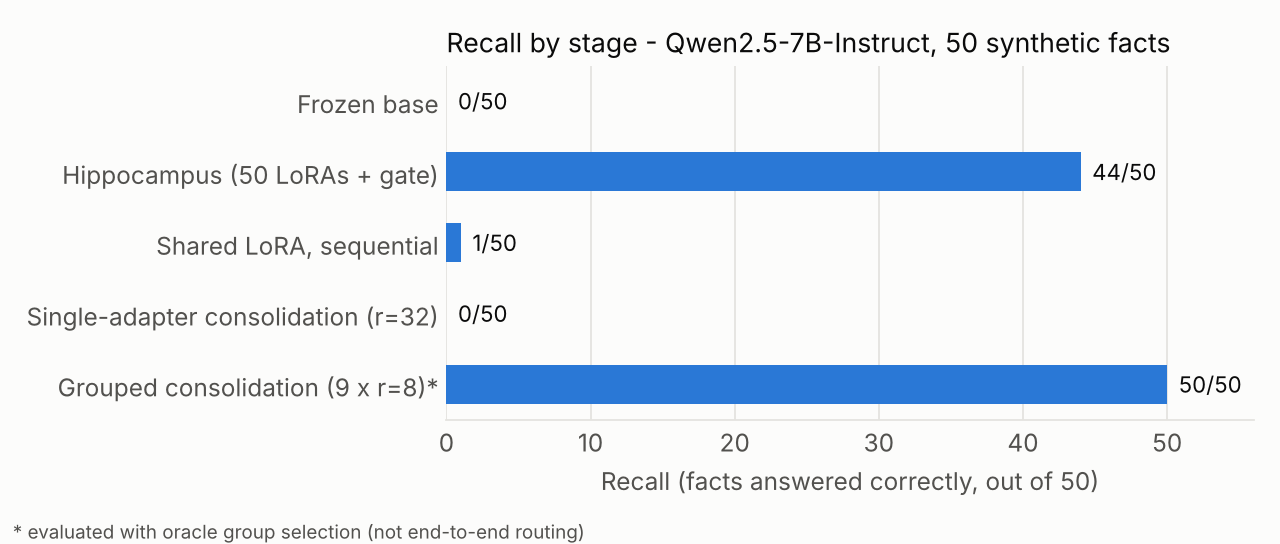
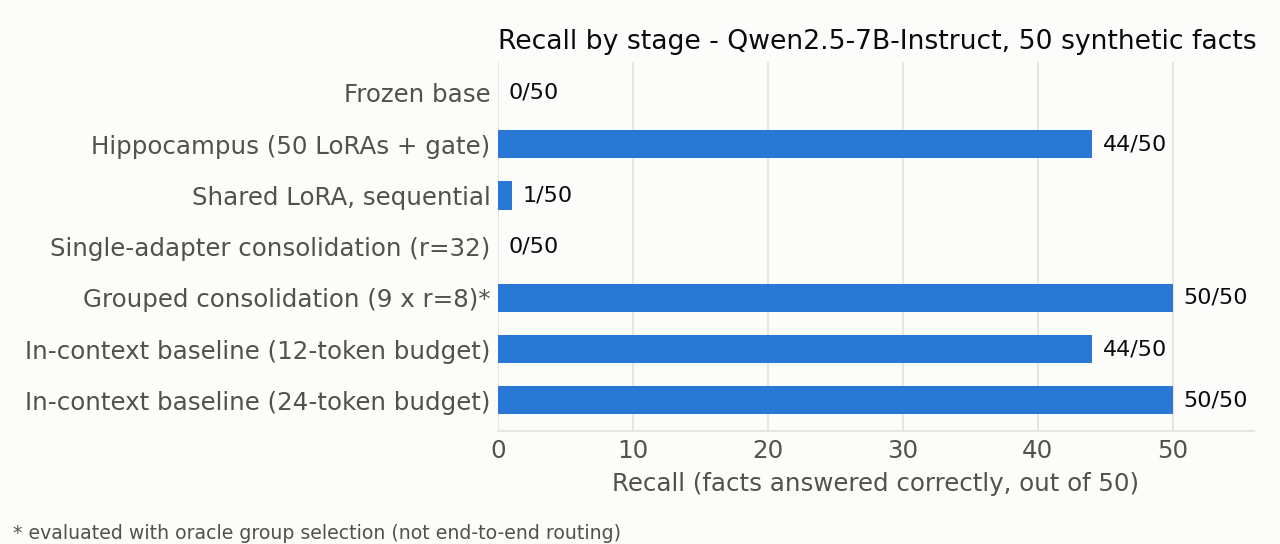
results: 补跑 ICL 基线（12 token 44/50、24 token 50/50），更新结论、图表与报告附录

diff --git a/src/baseline_icl.py b/src/baseline_icl.py
@@ -25,7 +25,7 @@ MODEL_ID = os.environ.get("MODEL_ID", "Qwen/Qwen2.5-7B-Instruct")
 SEED = int(os.environ.get("SEED", "42"))
 N_FACTS = int(os.environ.get("N_FACTS", "50"))
 USE_4BIT = os.environ.get("USE_4BIT", "1") != "0"
-MAX_NEW = 12
+MAX_NEW = int(os.environ.get("MAX_NEW", "12"))   # 与论文其它阶段保持 12；调大可用于区分「答错」和「被截断」
 
 
 def pick_facts(n):

diff --git a/results/plot_results.py b/results/plot_results.py
@@ -35,6 +35,8 @@ LABELS = {
     "shared_lora_sequential": "Shared LoRA, sequential",
     "single_adapter_consolidation": "Single-adapter consolidation (r=32)",
     "grouped_consolidation_oracle": "Grouped consolidation (9 x r=8)*",
+    "icl_baseline_max12": "In-context baseline (12-token budget)",
+    "icl_baseline_max24": "In-context baseline (24-token budget)",
 }
 
 

diff --git a/README.md b/README.md
@@ -26,17 +26,28 @@ Five stages on 50 fabricated facts:
 
 ![Consolidation loss: single adapter vs grouped](results/fig_consolidation_loss.png)
 
+### In-context baseline (added 2026-10-22)
+
+All 50 facts pasted into the system prompt (~700 tokens), no training, greedy decode, `src/baseline_icl.py`:
+
+| Token budget | Recall | Wall clock | Note |
+|---|---|---|---|
+| 12 (same as the other stages) | 44/50 | 22 s | ties the hippocampus; all 6 misses are **truncation**, not wrong answers |
+| 24 | **50/50** | 24 s | every fact answered correctly on the first try |
+
+This is the comparison the original note was missing, and it is unkind to the LoRA stack: at 50 facts, simply putting the facts in the prompt is as accurate as the best consolidated configuration — no adapters, no training, no oracle routing. What weight-based memory could still buy is a constant context cost (0 prompt tokens instead of ~700) and graceful behaviour once the fact set outgrows the window, but at this scale that is an argument, not a measurement. The 12-token misses are worth reading: the model reproduces the fact's own wording and gets cut off mid-answer, which is exactly the kind of artefact a shared token budget produces when every stage is scored with the same decoder limit.
 ### Three takeaways
 
 1. **The hippocampal side scales.** Per-fact LoRA plus cosine gating goes from 6 to 50 facts and still recalls 44/50 with 47/50 routing.
 2. **Sequential learning forgets.** A single shared LoRA trained on 50 facts in sequence retains 1 — the same as 1/6 at the smaller scale.
 3. **Single-adapter consolidation is the bottleneck of this recipe.** With batch=1, fixed order, rank-32 and 150 epochs, it reaches 0/50; split into 9 rank-8 adapters it returns to 50/50 within each group.
+4. **At 50 facts, in-context learning is a serious baseline.** It matches the hippocampus at an equal token budget and reaches 50/50 with a slightly larger one, for zero training. Any claim that this architecture is *necessary* has to be made at a scale or a context budget where the baseline stops fitting.
 
 ### What these results do **not** support
 
 - The grouped 50/50 is measured **after selecting the adapter by its known group** (oracle routing). End-to-end routing across the 9 semantic adapters from question content alone has not been tested.
 - Single-adapter 0/50 is a failure of **this training recipe**; there is no rank sweep and no joint-training control (all 50 facts in one batch), so it is not evidence of a capacity limit.
-- There is no comparison against in-context learning or RAG. The question here is whether memory can be written into weights, not whether a given context can answer correctly.
+- The in-context baseline was run on 2026-10-22, after the original numbers were produced, on a single seed and a single model; RAG and other retrieval baselines are still missing. The question the experiment asks is whether memory can be written into weights, not whether a given context can answer correctly — and the baseline now makes that distinction harder to argue in favour of the adapters.
 - Single run, substring-match recall, and the original runs did not fix the random seed (scripts now default to `SEED=42` but were not re-run). See section 8 of the report.
 
 ## Repository layout

diff --git a/README.zh-CN.md b/README.zh-CN.md
@@ -28,17 +28,28 @@ A small-scale engineering probe of **Complementary Learning Systems** on LoRA ad
 
 6 条版对照见 [`docs/report.md`](docs/report.md)。
 
+### ICL 基线（2026-10-22 补充）
+
+把 50 条事实原样塞进 system prompt（约 700 token），不训练、贪婪解码，脚本 `src/baseline_icl.py`：
+
+| 生成长度 | 召回 | 耗时 | 说明 |
+|---|---|---|---|
+| 12 token（与其它阶段一致） | 44/50 | 22 秒 | 与海马体打平；6 条 MISS **全是被截断**，不是答错 |
+| 24 token | **50/50** | 24 秒 | 全部一次答对 |
+
+这是原文缺的那个对照，而且对 LoRA 方案不利：**50 条这个规模上，把事实放进 prompt 的准确率就等于最好的巩固配置**，且不需要适配器、不需要训练、也不需要 oracle 路由。权重记忆真正可能带来的东西是**恒定的上下文成本**（0 token vs 约 700）和事实量超出窗口后的优雅退化——但在这个规模上，这还只是论点，不是测量。12 token 那 6 条也很值得看：模型把事实原句复述了一遍，答案被截断在中间，这正是所有阶段共用同一个解码预算时会产生的假失败。
 ### 三个能带走的结论
 
 1. **海马体侧可扩展**：逐条 LoRA + 余弦门控从 6 条扩到 50 条，仍有 44/50 召回、47/50 路由。
 2. **顺序学习会遗忘**：单共享 LoRA 顺序学 50 条只剩 1 条，和 6 条版的 1/6 一致。
 3. **单适配器巩固是当前配方的瓶颈**：batch=1、固定顺序、rank-32、150 epoch 下 0/50；拆成 9 个 rank-8 适配器后组内恢复到 50/50。
+4. **50 条规模下，ICL 是个硬基线**：同预算下与海马体打平，预算略放宽就是 50/50，且零训练。任何「必须把这套架构写进权重」的主张，都得放在「基线装不下」的规模或上下文预算上才成立。
 
 ### 这些结论**不**支持什么
 
 - 分组 50/50 是**按已知分组选择适配器**后测的（oracle routing），**没有**验证“只凭问题内容在 9 个语义适配器之间路由”的端到端准确率。
 - 单适配器 0/50 是**这套训练配方**的失败；没做 rank sweep，也没做“50 条同时进 batch 的联合训练”对照，不能直接断言是容量上限。
-- 没有和 in-context learning / RAG 比较。本实验关心的是“把记忆写进权重”，不是“给定 context 能否答对”。
+- ICL 基线是 **2026-10-22 补跑**的（晚于原始数字），单种子单模型；RAG 等检索对照仍然缺失。本实验关心的是「把记忆写进权重」，不是「给定 context 能否答对」——而补上基线之后，这个区分对适配器方案更不利了。
 - 单次运行、召回为子串匹配；表中数字来自**未固定随机种子**的原始运行（脚本现已默认 `SEED=42`，但未重跑）。完整局限见报告 §8。
 
 ---

diff --git a/docs/report.md b/docs/report.md
@@ -201,3 +201,31 @@ LoRA 目标模块：`q_proj, k_proj, v_proj, o_proj, gate_proj, up_proj, down_pr
 ---
 
 *原始运行日志（`exp.log`、`exp_grouped.log`）在实验实例上生成，未随仓库分发；报告中的表格摘自这两份日志。*
+
+---
+
+## 10. 附录：ICL 基线（2026-10-22 补跑）
+
+**动机**：§8 承认「没有和 ICL 比」。缺这个对照，读者无法判断 44/50、50/50 究竟意味着什么。
+
+**方法**：`src/baseline_icl.py`。50 条事实以编号列表放进 system prompt（约 700 token），用户只给测试前缀，`do_sample=False`，Qwen2.5-7B-Instruct 4-bit nf4，零训练。
+
+**环境**：RTX 5090 32GB / torch 2.8.0+cu128（Blackwell, sm_120）/ transformers 4.57.6 / peft 0.21.2 / bitsandbytes 0.50.2。
+
+**结果**：
+
+| 生成长度 | 召回 | 耗时 |
+|---|---|---|
+| 12 token（与原实验一致） | 44/50 | 22 s |
+| 24 token | 50/50 | 24 s |
+
+12 token 预算下的 6 条 MISS **全部是被截断**：模型先复述事实原句（如 `The Zorblax protocol uses a passcode: V`），答案还没输出完就撞上预算。放宽到 24 token 后全部答对，原始日志见 `results/logs/`。
+
+**含义**：
+
+1. 在 50 条规模上，ICL 与最佳巩固配置（oracle 分组 50/50）持平，且零训练、零适配器、不需路由——原报告「分组巩固 50/50」的对照意义被显著削弱。
+2. 海马体的 44/50 与 ICL 的 44/50 恰好相同，但后者没有任何训练成本（除底座权重本身）。
+3. 权重记忆可能的价值需要重新表述为：恒定上下文成本（0 token vs 约 700）、事实量超出窗口时的退化行为、以及不能注入 prompt 的场景——这些都还没测。
+4. 评测层面：所有阶段共用 12 token 预算会系统性低估「先复述再回答」的行为。后续应按阶段校准预算，或改为定位答案片段判分。
+
+**局限**：单种子、单模型、无 RAG 对照；prompt 组织方式（编号列表）未做消融。

diff --git a/results/README.md b/results/README.md
@@ -7,7 +7,9 @@
 - `exp.log` — 50 条事实完整流程（约 3453s）
 - `exp_grouped.log` — 9 组分组巩固（约 1418s）
 
-这两份日志未随仓库分发。重跑后可将日志放到本目录（已在 `.gitignore` 中排除 `*.log`；如果要随仓库发布，请确认其中不含主机名、凭据等敏感信息）。
+这两份日志未随仓库分发。
+
+`logs/` 目录下是 2026-10-22 补跑的 ICL 基线日志（`icl_50_max12.log`、`icl_50_max24.log`），已随仓库发布：只含事实文本与模型输出，不含主机名或凭据。
 
 文件：
 
@@ -16,5 +18,6 @@
 | `summary.csv` | 五个阶段的召回与路由准确率 |
 | `loss_curves.csv` | 单适配器巩固的 loss 曲线、分组巩固的最终 loss 与组内召回 |
 | `plot_results.py` | 读取上面两个 CSV，生成 `fig_recall.png` 与 `fig_consolidation_loss.png`（`python results/plot_results.py`，需 matplotlib） |
+| `logs/icl_50_*.log` | ICL 基线原始输出（12 / 24 token 两种预算） |
 
 注意：分组巩固的召回是 oracle 分组（按已知组选择适配器）下的组内结果，不是端到端路由准确率。
